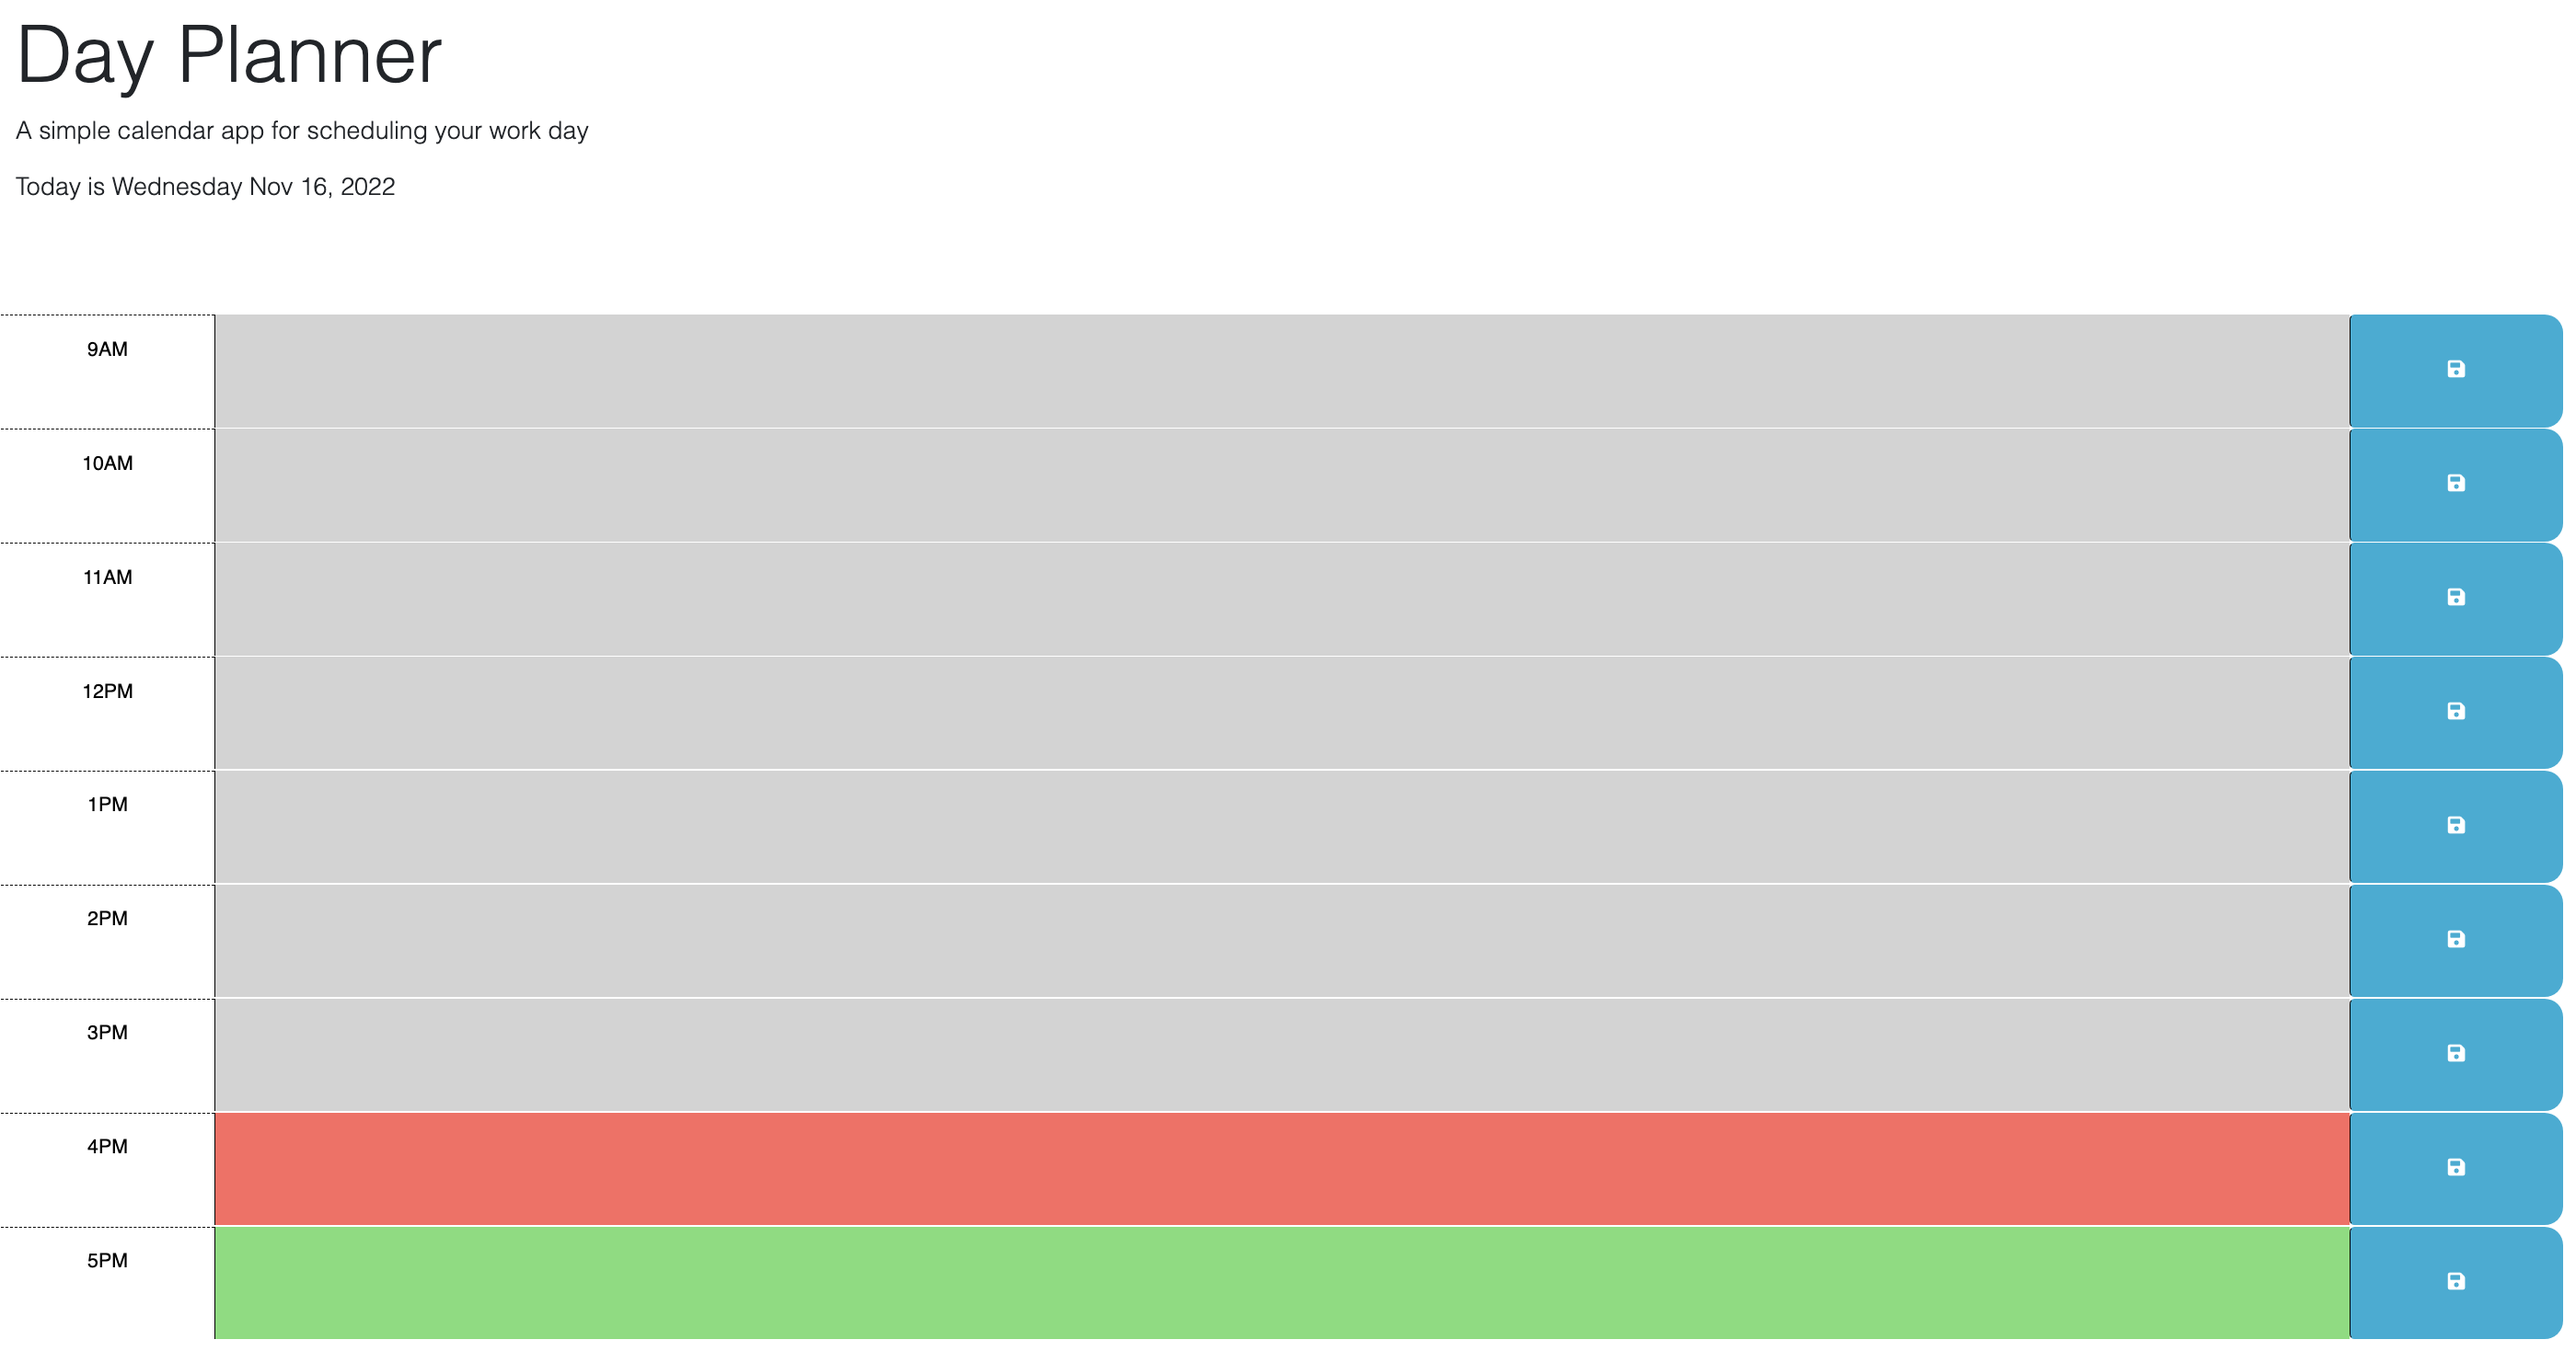
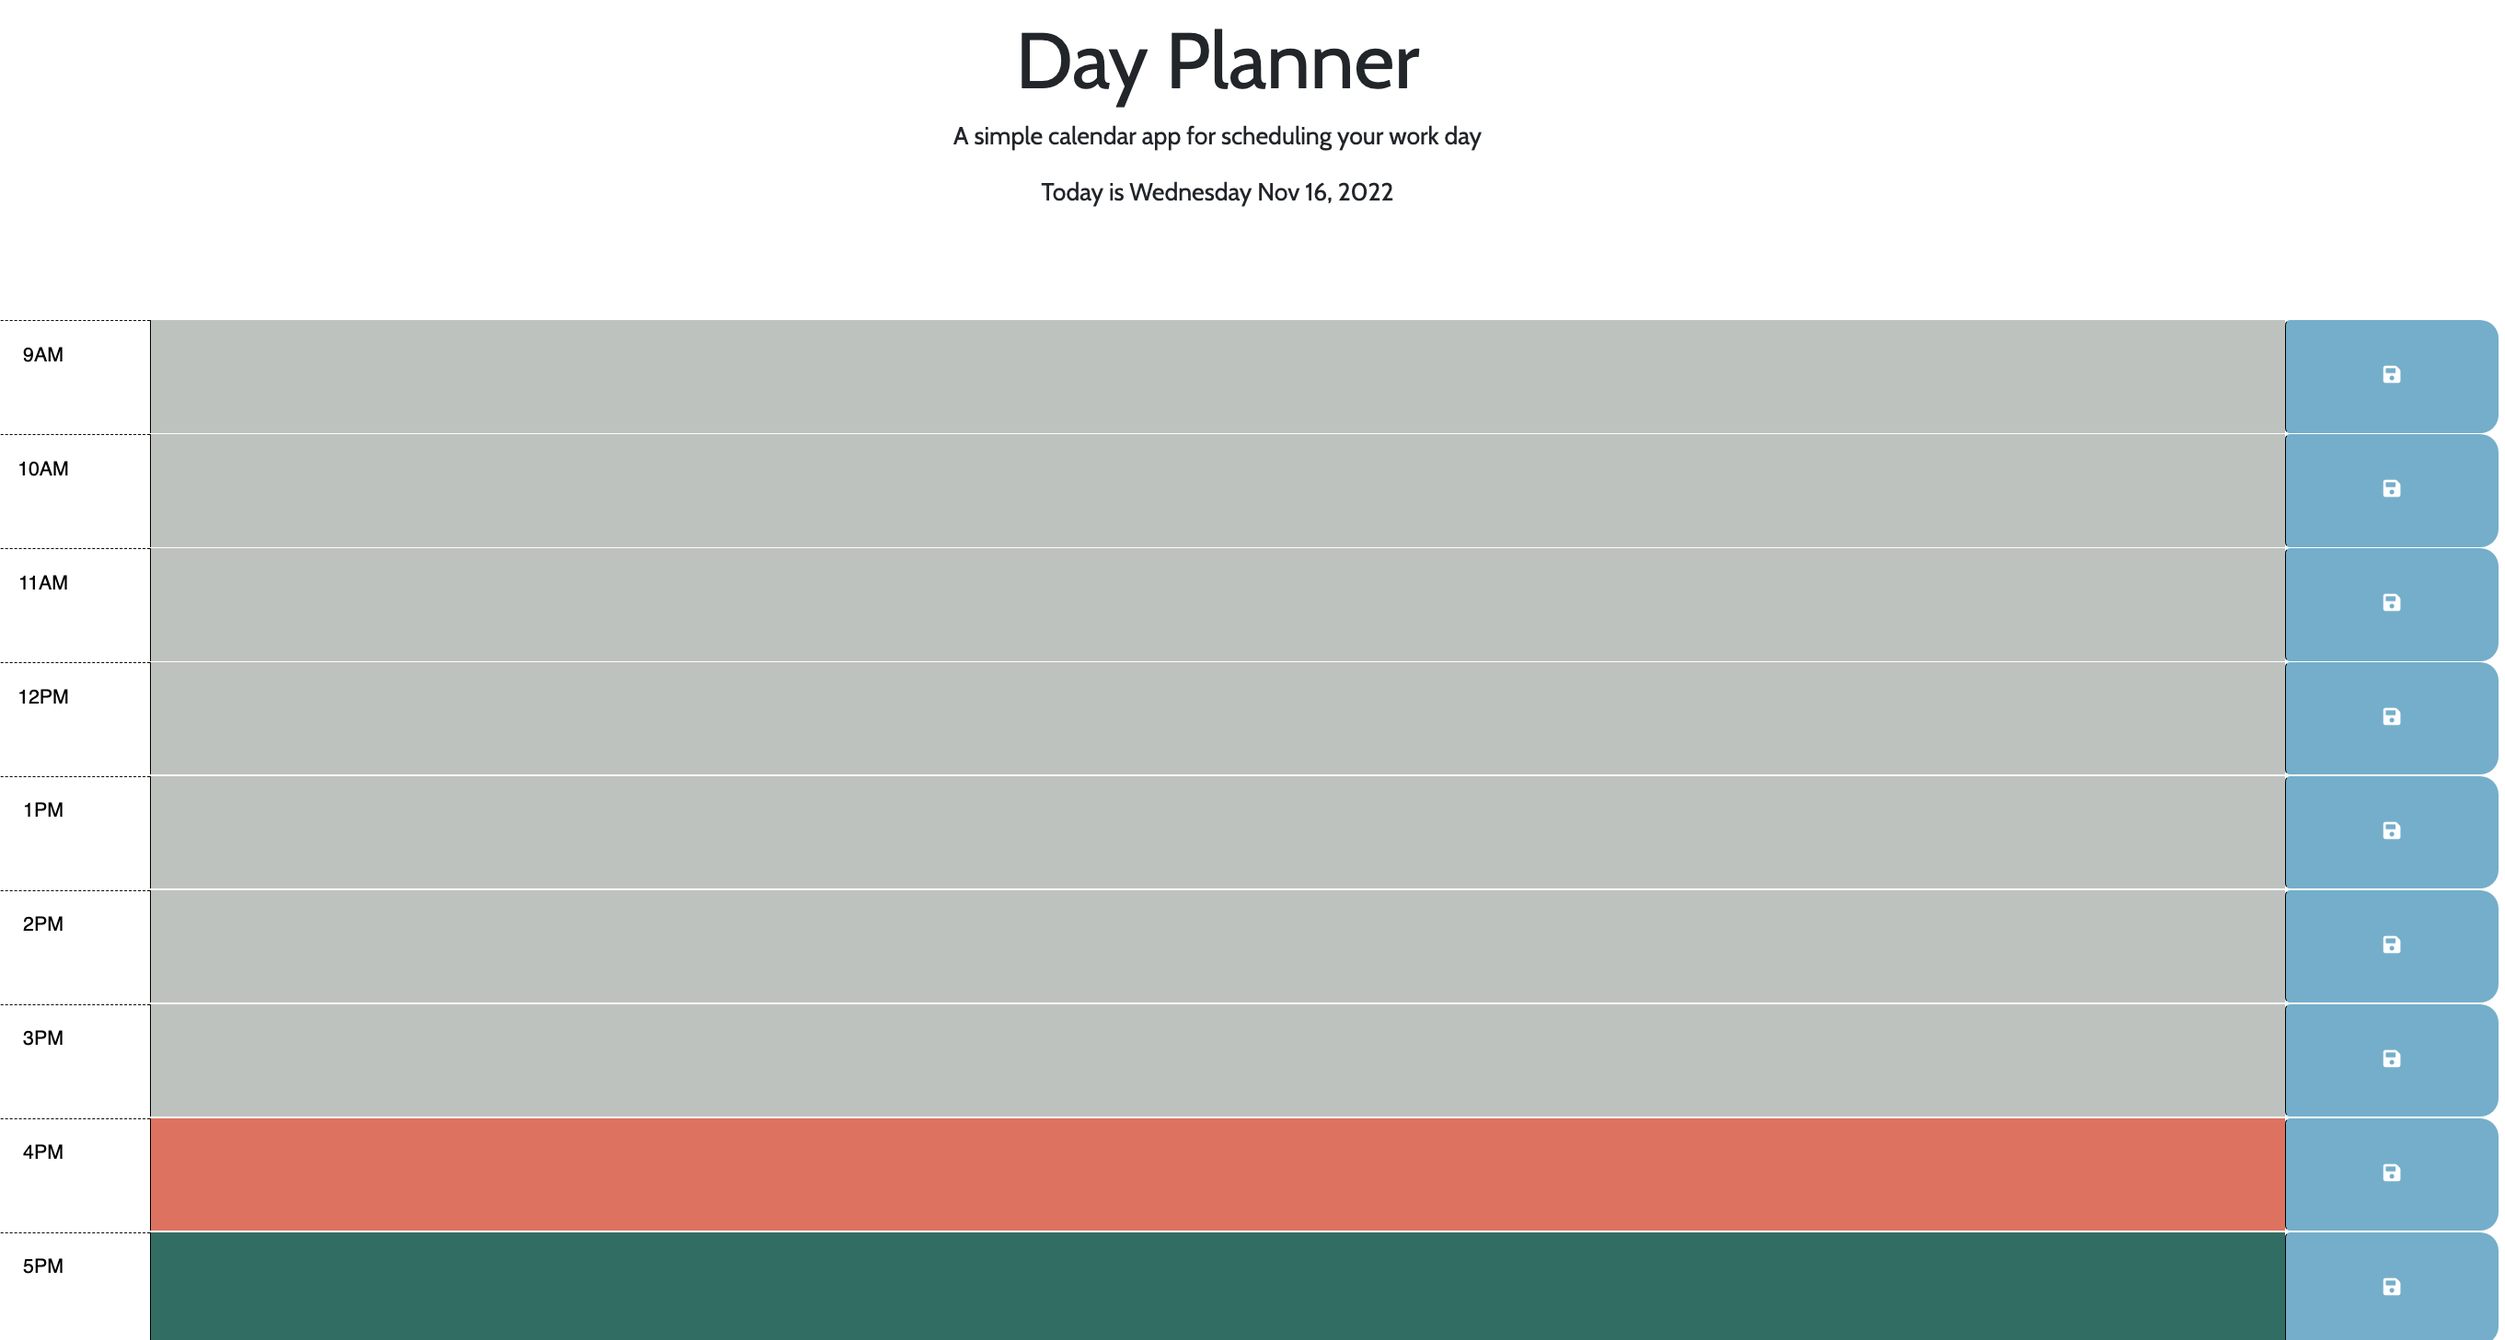
update style
updated colors, fonts, alignment, README screnshot

diff --git a/Develop/style.css b/Develop/style.css
@@ -12,6 +12,18 @@ textarea {
   padding: 10px;
 }
 
+h1 {
+  text-align: center;
+  font-family: 'Cabin', sans-serif;
+}
+
+.lead {
+  text-align: center;
+  font-family: 'Cabin', sans-serif;
+
+}
+
+
 .description {
   white-space: pre-wrap;
 }
@@ -31,25 +43,28 @@ textarea {
 }
 
 .past {
-  background-color: #d3d3d3;
+  background-color: #bdc2bf;
   color: white;
+  font-family: 'Cabin', sans-serif;
 }
 
 .present {
-  background-color: #ff6961;
+  background-color: #ED6A5A;
   color: white;
+  font-family: 'Cabin', sans-serif;
 }
 
 .future {
-  background-color: #77dd77;
+  background-color: #136F63;
   color: white;
+  font-family: 'Cabin', sans-serif;
 }
 
 .saveBtn {
   border-left: 1px solid black;
   border-top-right-radius: 15px;
   border-bottom-right-radius: 15px;
-  background-color: #06aed5;
+  background-color: #63B0CD;
   color: white;
 }
 

diff --git a/index.html b/index.html
@@ -20,6 +20,12 @@
       href="https://fonts.googleapis.com/css2?family=Fira+Sans:wght@400;700&display=swap"
       rel="stylesheet"
     />
+
+    <link rel="preconnect" href="https://fonts.googleapis.com">
+    <link rel="preconnect" href="https://fonts.gstatic.com" crossorigin>
+    <link href="https://fonts.googleapis.com/css2?family=Cabin&display=swap" rel="stylesheet">
+    
+
     <link rel="stylesheet" href="./Develop/style.css" />
 
     <title>Day Planner</title>

diff --git a/README.md b/README.md
@@ -4,7 +4,7 @@
 
  The Day Planner is a simple yet effective calendar application that allows users to save events for each hour of the day. The application runs in the browser and features dynamically updated HTML and CSS powered by jQuery.
 
- The day planner is a tool that aims to assist users with organizing their daily tasks for the day in one convenient location.
+ The Day Planner is a tool that aims to assist users with organizing their daily tasks for the day in one convenient location.
 
  This project gave me the opportunity to practice my newly acquired coding skills. Through the process of creating the Day Planner application, I've become more familiar with jQuery, Day.js, and working with local storage.
 
@@ -35,7 +35,7 @@ Clear local storage:
 OR
 2. Type the following command into the console: localStorage.clear()
 
-<img width="1400" alt="day-planner-webpage-screenshot" src="https://user-images.githubusercontent.com/113480175/202304228-03d1a397-1e36-4258-b6c3-bb3d1ec8f5e9.png">
+<img width="1361" alt="day-planner-webpage-screenshot" src="https://user-images.githubusercontent.com/113480175/202308073-1434b164-6bda-42e7-9bb4-a34183a16205.png">
 
 ## License 
 
